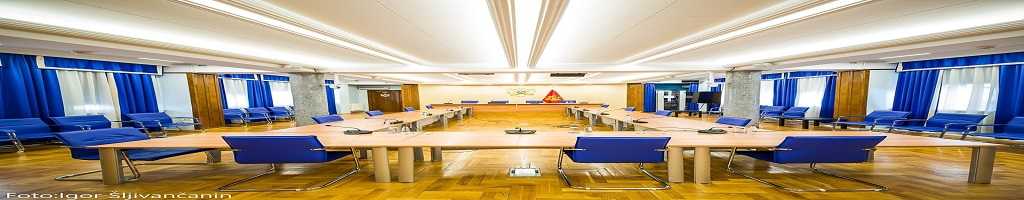
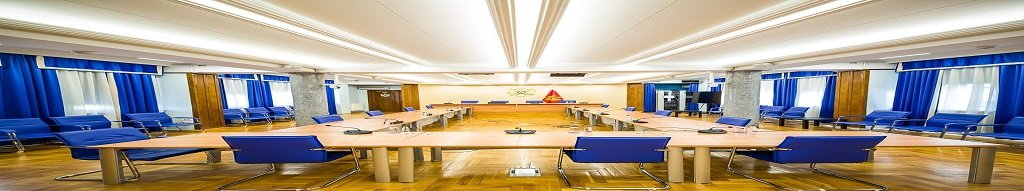
fix-607

diff --git a/src/pages/SearchPage/SearchPage.jsx b/src/pages/SearchPage/SearchPage.jsx
@@ -3,7 +3,7 @@ import FeaturedNewsCard from "../../components/FeaturedNewsCard/FeaturedNewsCard
 import HeaderPhoto from "../../components/HeaderPhoto/HeaderPhoto";
 import AuthContext from "../../Context/AuthContext";
 import "./SearchPage.css";
-import salon from "../../images/salon3.jpg"
+import salon from "../../images/header2.jpg"
 
 const SearchPage = () => {
   const { searchResults } = useContext(AuthContext);

diff --git a/src/pages/NewsPage/NewsPage.jsx b/src/pages/NewsPage/NewsPage.jsx
@@ -4,7 +4,7 @@ import FeaturedNewsCard from "../../components/FeaturedNewsCard/FeaturedNewsCard
 import HeaderPhoto from "../../components/HeaderPhoto/HeaderPhoto";
 import AuthContext from "../../Context/AuthContext";
 import "../NewsPage/NewsPage.css";
-import salon from "../../images/salon3.jpg"
+import salon from "../../images/header2.jpg"
 
 const NewsPage = () => {
   const { lang } = useContext(AuthContext);

diff --git a/src/pages/NewsSinglePage/NewsSinglePage.jsx b/src/pages/NewsSinglePage/NewsSinglePage.jsx
@@ -6,7 +6,7 @@ import HeaderPhoto from "../../components/HeaderPhoto/HeaderPhoto";
 import NewsGallery from "../../components/NewsGallery/NewsGallery";
 import AuthContext from "../../Context/AuthContext";
 import "../NewsSinglePage/NewsSinglePage.css";
-import salon from "../../images/salon3.jpg"
+import salon from "../../images/header2.jpg"
 
 const NewsSinglePage = () => {
   let [News, setNews] = useState({});

diff --git a/src/pages/Company/Company.jsx b/src/pages/Company/Company.jsx
@@ -3,7 +3,7 @@ import HeaderPhoto from "../../components/HeaderPhoto/HeaderPhoto";
 import AuthContext from "../../Context/AuthContext";
 import pdfdownload from "../../images/pdf.png";
 import "../Company/Company.css";
-import salon from "../../images/salon3.jpg"
+import salon from "../../images/header2.jpg"
 
 const Company = () => {
   const { user } = useContext(AuthContext);

diff --git a/src/pages/SkupstinaPage/SkupstinaPage.jsx b/src/pages/SkupstinaPage/SkupstinaPage.jsx
@@ -3,7 +3,7 @@ import HeaderPhoto from '../../components/HeaderPhoto/HeaderPhoto'
 import "../SkupstinaPage/SkupstinaPage.css"
 import AuthContext from "../../Context/AuthContext";
 import pdfdownload from "../../images/pdf.png";
-import salon from "../../images/salon3.jpg"
+import salon from "../../images/header2.jpg"
 
 
 const SkupstinaPage = () => {

diff --git a/src/pages/LoginPage/LoginPage.jsx b/src/pages/LoginPage/LoginPage.jsx
@@ -3,7 +3,7 @@ import HeaderPhoto from "../../components/HeaderPhoto/HeaderPhoto";
 import AuthContext from "../../Context/AuthContext";
 import logo from "../../images/Artboard.png";
 import "../LoginPage/LoginPage.css";
-import salon from "../../images/salon3.jpg"
+import salon from "../../images/header2.jpg"
 
 
 const LoginPage = () => {

diff --git a/src/pages/LawsPage/LawsPage.jsx b/src/pages/LawsPage/LawsPage.jsx
@@ -5,7 +5,7 @@ import "./LawsPage.css"
 import { useLocation } from 'react-router-dom';
 import HeaderPhoto from '../../components/HeaderPhoto/HeaderPhoto';
 import pdfdownload from "../../images/pdf.png";
-import salon from "../../images/salon3.jpg"
+import salon from "../../images/header2.jpg"
 
 const LawsPage = () => {
   

diff --git a/src/pages/ListDocumentsPage/ListDocumentsPage.jsx b/src/pages/ListDocumentsPage/ListDocumentsPage.jsx
@@ -3,7 +3,7 @@ import HeaderPhoto from "../../components/HeaderPhoto/HeaderPhoto";
 import AuthContext from "../../Context/AuthContext";
 import pdfdownload from "../../images/pdf.png";
 import "./ListDocumentsPage.css";
-import salon from "../../images/salon3.jpg"
+import salon from "../../images/header2.jpg"
 
 
 

diff --git a/src/pages/ContactPage/ContactPage.jsx b/src/pages/ContactPage/ContactPage.jsx
@@ -4,7 +4,7 @@ import HeaderPhoto from "../../components/HeaderPhoto/HeaderPhoto";
 import AuthContext from "../../Context/AuthContext";
 import logo from "../../images/Artboard.png";
 import "./ContactPage.css";
-import salon from "../../images/salon3.jpg"
+import salon from "../../images/header2.jpg"
 
 
 
